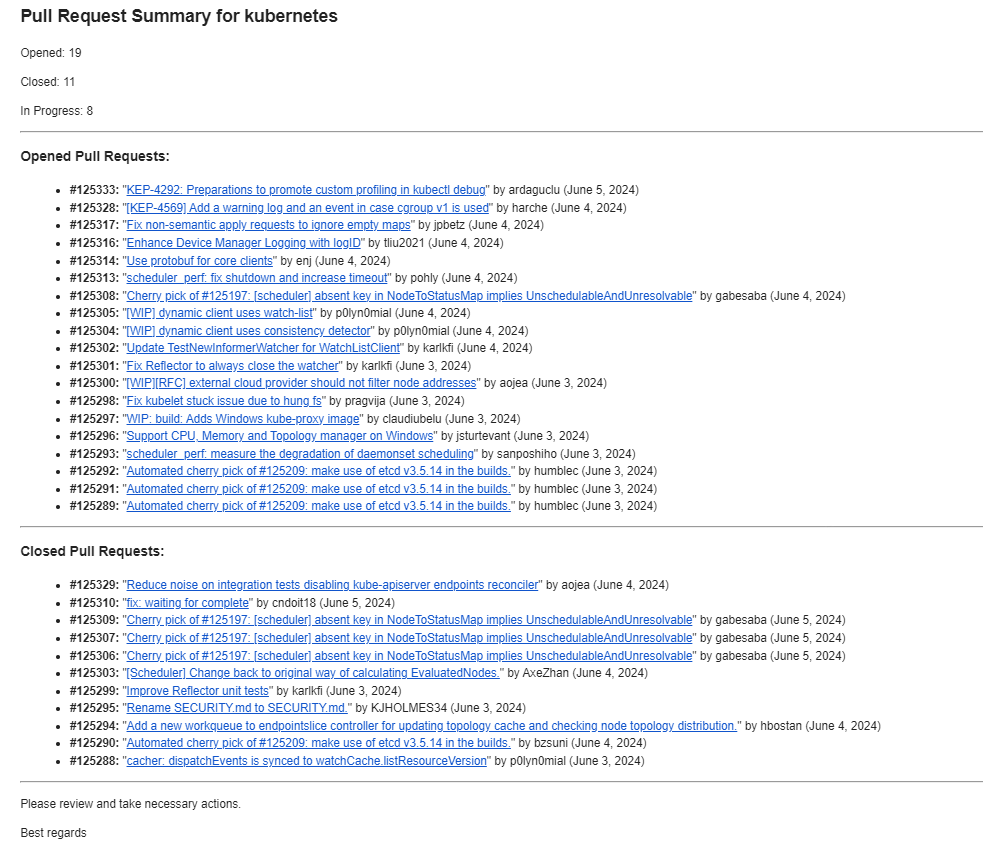
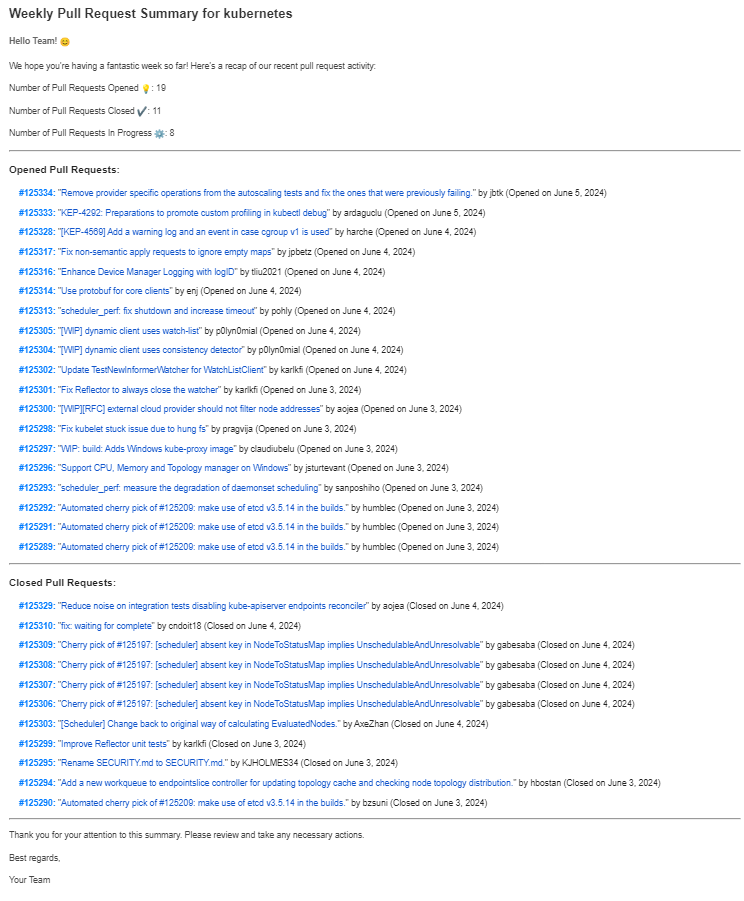
Add a friendly text to the email and update the example image

Changed region(s): [[0.0, 0.0, 0.9892, 1.0]]

diff --git a/services/template.html b/services/template.html
@@ -2,14 +2,32 @@
 <html>
 <head>
     <meta charset="UTF-8">
-    <title>Pull Request Summary</title>
+    <title>Weekly Pull Request Summary</title>
+    <style>
+        body {
+            font-family: Arial, sans-serif;
+        }
+        ul {
+            list-style-type: none;
+        }
+        li {
+            margin-bottom: 10px;
+        }
+        a {
+            text-decoration: none;
+        }
+        a:hover {
+            text-decoration: underline;
+        }
+    </style>
 </head>
 <body>
-    <h2>Pull Request Summary for {{.Repo}}</h2>
-    <h3>Hello Team, here's the summary of pull requests activity in the last week:</h3>
-    <p>Opened: {{.Opened}}</p>
-    <p>Closed: {{.Closed}}</p>
-    <p>In Progress: {{.InProgress}}</p>
+    <h2>Weekly Pull Request Summary for {{.Repo}}</h2>
+    <h4>Hello Team! 😊</h4>
+    <p>We hope you're having a fantastic week so far! Here's a recap of our recent pull request activity:</p>
+    <p>Number of Pull Requests Opened 💡: {{.Opened}}</p>
+    <p>Number of Pull Requests Closed ✔: {{.Closed}}</p>
+    <p>Number of Pull Requests In Progress ⚙: {{.InProgress}}</p>
     <hr>
     <h3>Opened Pull Requests:</h3>
     <ul>
@@ -29,8 +47,9 @@
         {{end}}
     </ul>
     <hr>
-    <p>Please review and take necessary actions.</p>
-    <p>Best regards</p>
+    <p>Thank you for your attention to this summary. Please review and take any necessary actions.</p>
+    <p>Best regards,</p>
+    <p>Your Team</p>
 </body>
 </html>
 
